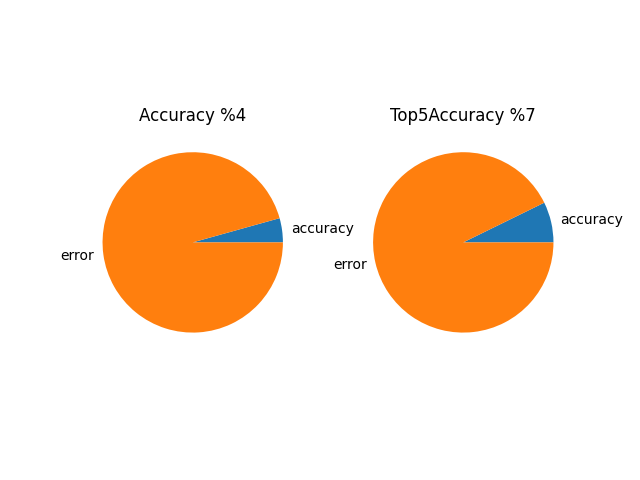
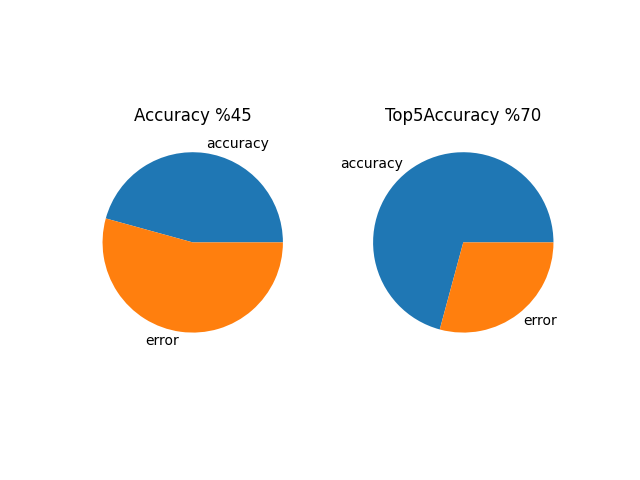
Updated net3

diff --git a/lab3/sales.py b/lab3/sales.py
@@ -19,6 +19,7 @@ def train(network, train_loader, optimizer, schedule, epochs, n=1, device='cuda'
     # or make your own with random weights
     network.to(device=device)
     network.train()
+    total_loss=[]
     for i in tqdm.tqdm(range(epochs)):
         losses_train = []
         loss_train = 0.0
@@ -40,17 +41,19 @@ def train(network, train_loader, optimizer, schedule, epochs, n=1, device='cuda'
 
 
 
-            if batch % 10 == 0:
-                print("Epoch:", i + 1, "| Batch:", batch, " | Loss:" , loss_train / 10 )
+            if batch % 50 == 0:
+                print("Epoch:", i + 1, "| Batch:", batch, " | Loss:" , loss_train / 50 )
                 loss_train = 0.0
 
         avg_loss = sum(losses_train) / len(losses_train)
         schedule.step(avg_loss)
+        total_loss.append(avg_loss)
         # losses_train += [loss_train]
         # print("Overall Loss: ", losses_train[-1])
 
     torch.save(network.state_dict(), args.sales_pth)
-    plt.plot(losses_train)
+    plt.plot(total_loss)
+    plt.yscale('log')
     plt.xlabel('epochs')
     plt.ylabel('losses')
     plt.title(f'architecture model, dataset size {n}')
@@ -93,10 +96,11 @@ def test(network, test_loader, optimizer, schedule, epochs, n=1, device='cuda'):
     blessed, top5bless = getAccuracy(total, top5total, args.accuracy_plot)
     print(f'total classified: {blessed}\n top5classified: {top5bless}')
 
+
 parser = argparse.ArgumentParser()
 parser.add_argument('--gamma', type=float, default=0.9)
-parser.add_argument('--epochs', type=int, default=25)
-parser.add_argument('--batch', type=int, default=200)
+parser.add_argument('--epochs', type=int, default=300)
+parser.add_argument('--batch', type=int, default=150)
 parser.add_argument('--sales_pth', type=str, default="NetSales.pth")
 parser.add_argument('--loss_plot', type=str, default="loss.Sales.png")
 parser.add_argument('--training', type=str, default="y")
@@ -104,7 +108,8 @@ parser.add_argument('--accuracy_plot', type=str, default="accuracy.netSales.png"
 args = parser.parse_args()
 
 device = torch.device('cuda')
-network = NetSales(groupSize=[2,2,3,2], numClasses=100)
+# network = NetSales(groupSize=[2,2,3,2], numClasses=100)
+network = NetSales(groupSize=[2,2,4,2], numClasses=100)
 
 train_transform = transforms.Compose([transforms.ToTensor()])
 train_set = CIFAR100('./data/cifar100', train=True, download=True, transform=train_transform)
@@ -113,14 +118,15 @@ test_set = CIFAR100('./data/cifar100', train=False, download=True, transform=tra
 train_loader = DataLoader(train_set, batch_size=args.batch, shuffle=True)
 test_loader = DataLoader(test_set, batch_size=args.batch, shuffle=False)
 
-adam = torch.optim.Adam(network.parameters(), lr=0.01, weight_decay=1e-04)
-SGD = torch.optim.SGD(network.parameters(), lr=0.1, weight_decay=1e-04, momentum=0.9)
+adam = torch.optim.Adam(network.parameters(), lr=0.1, weight_decay=1e-04)
+SGD = torch.optim.SGD(network.parameters(), lr=0.01, weight_decay=1e-04, momentum=0.9)
 
-schedule = lr_scheduler.ExponentialLR(adam, gamma=args.gamma)
-schedule2 = lr_scheduler.ReduceLROnPlateau(adam, factor = 0.1, patience=5)
+schedule = lr_scheduler.ExponentialLR(SGD, gamma=args.gamma)
+schedule2 = lr_scheduler.ReduceLROnPlateau(SGD, factor = 0.1, patience=5)
 
 if args.training == "y":
     train(network=network, train_loader=train_loader, optimizer=SGD, schedule=schedule2, epochs=args.epochs, n=len(train_set))
 else:
     network.load_state_dict(torch.load(args.sales_pth))
-    test(network=network, test_loader=test_loader, optimizer=adam, schedule=schedule, epochs=args.epochs, n=len(train_set))
+    test(network=network, test_loader=test_loader, optimizer=SGD, schedule=schedule, epochs=args.epochs, n=len(train_set))
+    # testImage(network, test_set)

diff --git a/lab3/network3.py b/lab3/network3.py
@@ -107,9 +107,9 @@ class NetSales(nn.Module):
         self.layerGroup4 = nn.Sequential(*(self.dimGroup4 + self.bottleGroup4))
 
         # fully connected layers
-        self.fc1 = nn.Linear(512*BottleBlock.expansion, 4096)
-        self.fc2 = nn.Linear(4096, 4096)
-        self.fc3 = nn.Linear(4096, numClasses)
+        self.fc1 = nn.Linear(512*BottleBlock.expansion, numClasses)
+        # self.fc2 = nn.Linear(4096, 4096)
+        # self.fc3 = nn.Linear(4096, numClasses)
 
         self.avgpool = nn.AdaptiveAvgPool2d((1, 1))
         self.cross_entropy_loss = nn.CrossEntropyLoss()
@@ -141,9 +141,9 @@ class NetSales(nn.Module):
         x = self.avgpool(x)
         x = x.reshape(x.shape[0], -1)
 
-        x = self.relu(self.fc1(x))
-        x = self.sigmoid(self.fc2(x))
-        x = self.softmax(self.fc3(x))
+        x = self.fc1(x)
+        # x = self.sigmoid(self.fc2(x))
+        # x = self.softmax(self.fc3(x))
 
         return x
 

diff --git a/lab3/functions.py b/lab3/functions.py
@@ -29,3 +29,20 @@ def train_transformer():
 
     return transform_list
 
+
+def testImage(model, eval_set):
+    model.to(device='cuda')
+    model.eval()
+
+    index = int(input("Pleas enter a number between 1-10000: "))
+    img = eval_set[index][0]
+    label = eval_set[index][1]
+
+    output = model(img)
+
+    fig, ax = plt.subplots(1,1)
+    fig.suptitle(f'test image is class: {label} , netSales guess is:{output}')
+    ax[0].imshow(img)
+
+    plt.show()
+

diff --git a/lab3/network.py b/lab3/network.py
@@ -44,11 +44,8 @@ class VanillaModel:
     classifier = nn.Sequential(
         nn.Linear(512 * 7 * 7, 4096),
         nn.ReLU(True),
-        # nn.Dropout(0.5),
         nn.Linear(4096, 4096),
         nn.Sigmoid(),
-        # nn.Softmax(),
-        # nn.Dropout(0.5),
         nn.Linear(4096, 100), #Output 1xC size tensor for classification
     )
 
